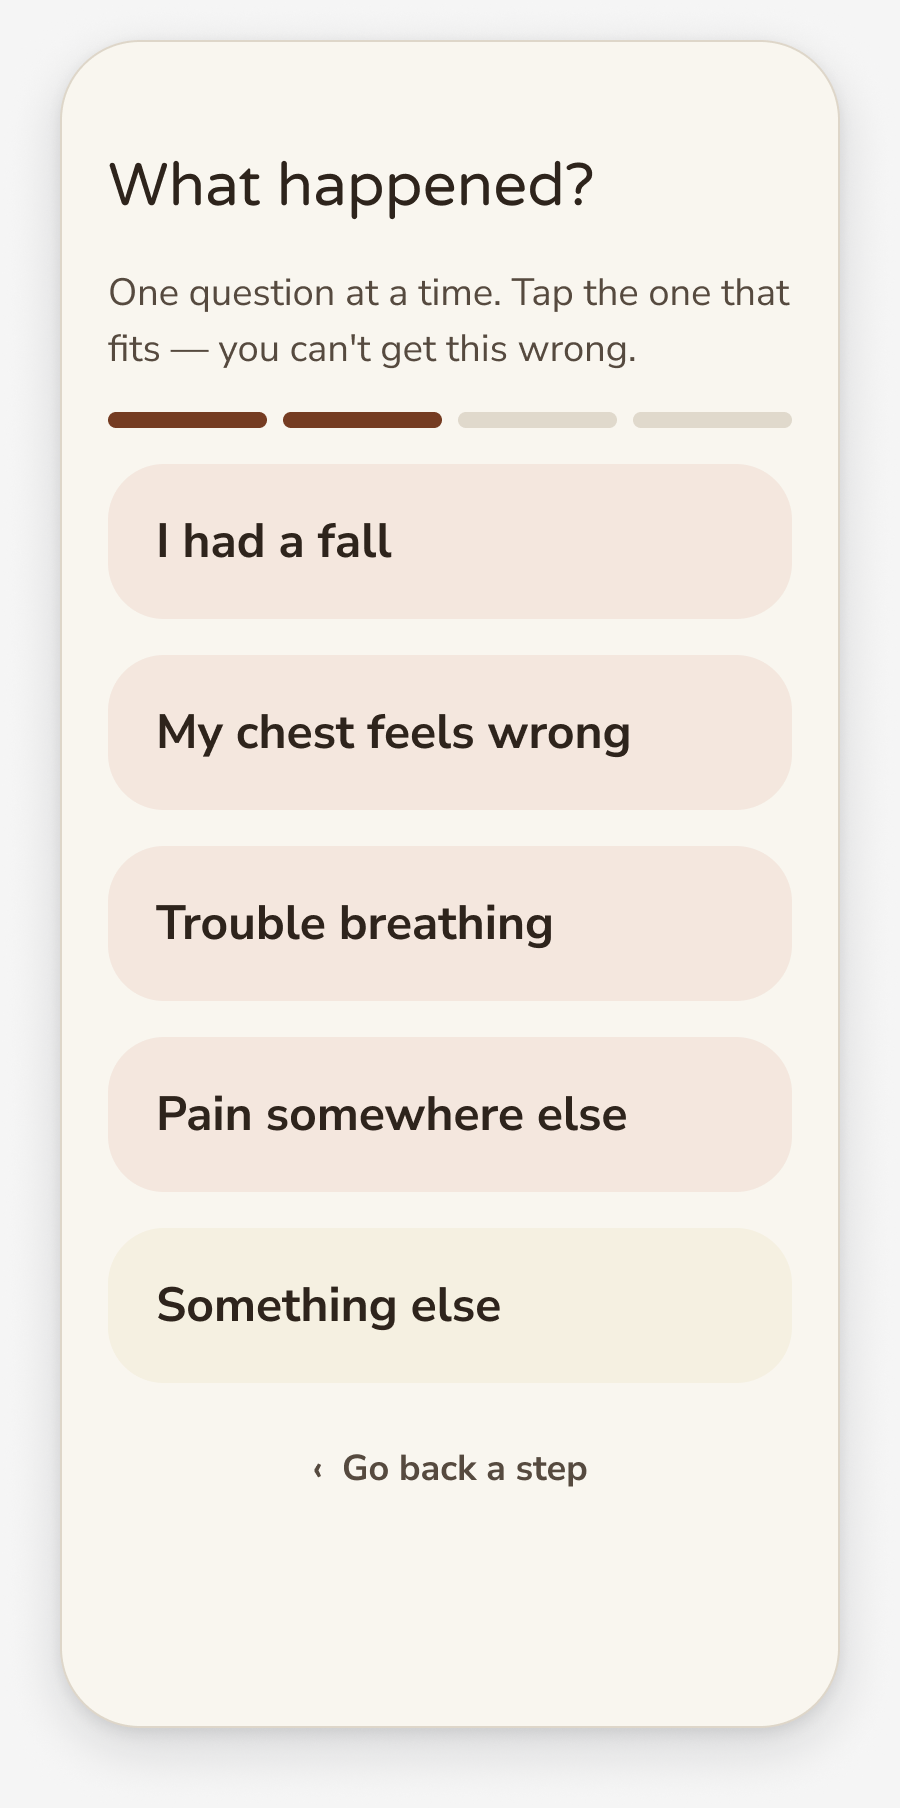
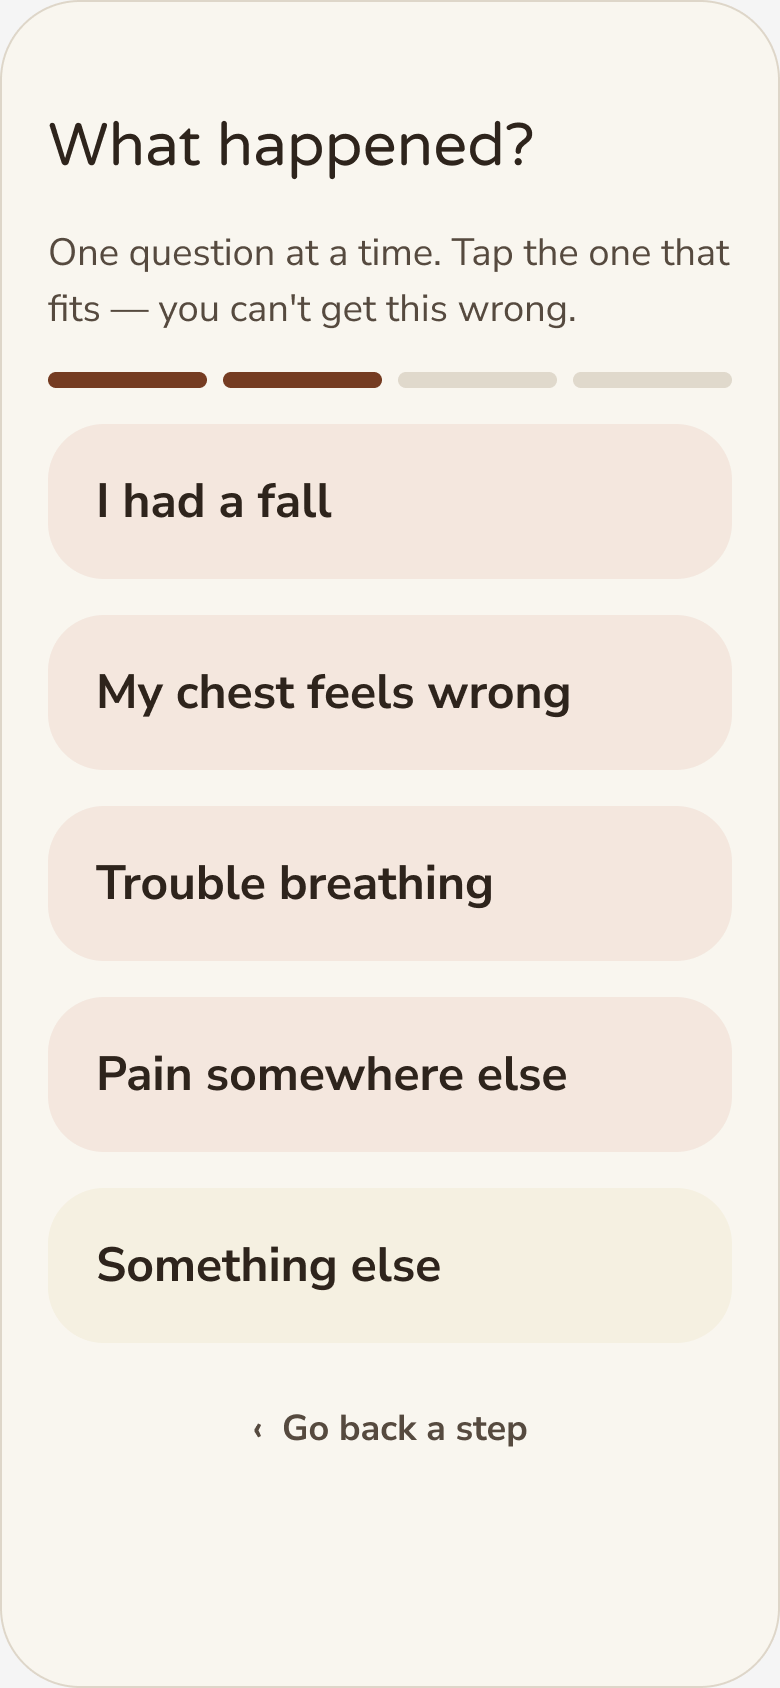
revert: shadow-free transparent exports, per review
Keep separation via transparent backgrounds only — the theme mat
shows through the gaps. Singles back to clean 780x1688 crops.

diff --git a/app/work/personal-nurse/case-study-content.tsx b/app/work/personal-nurse/case-study-content.tsx
@@ -258,8 +258,8 @@ export function CaseStudyContent() {
 							<Image
 								src={`${IMG}/screen-nurse-card.png`}
 								alt="Nurse card on her phone: Hello I'm Carol band, a red please-know-first allergy card, why I'm here, and small things that help a lot"
-								width={900}
-								height={1808}
+								width={780}
+								height={1688}
 								sizes="(min-width: 768px) 460px, 100vw"
 								className="h-auto w-full"
 							/>
@@ -465,8 +465,8 @@ function ScreenRow({ s, flip }: { s: Screen; flip: boolean }) {
 			<Image
 				src={s.img}
 				alt={s.alt}
-				width={900}
-				height={1808}
+				width={780}
+				height={1688}
 				sizes="(min-width: 768px) 360px, 80vw"
 				className="h-auto w-full"
 			/>
